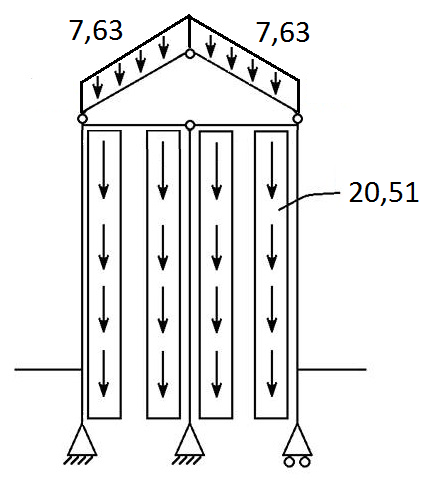
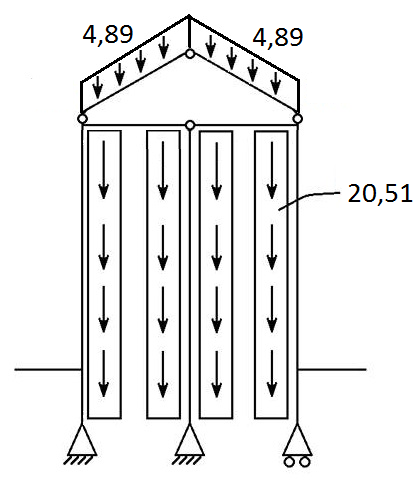
Egenlastafsnit rettet

Changed region(s): [[0.1555, 0.0311, 0.7464, 0.9959], [0.3421, 0.249, 0.5598, 0.9647], [0.7775, 0.3734, 0.9952, 0.4357]]

diff --git a/Rapport/Teknisk/indled.tex b/Rapport/Teknisk/indled.tex
@@ -53,7 +53,8 @@ Tilbygningen til Strøybergs Palæ vil blive udsat for en række laster, både p
 De permanente laster, der beregnes for tilbygningen af Strøybergs Palæ, er egenlast og jordlast.
 
 \subsubsection{Egenlast}
-Når egenlasten skal bestemmes, findes rumfanget af diverse materialer og ganges med deres densitet, og der fratrækkes vinduer og døres arealer. Dette er lasterne for hele bygningen, lasterne deles ud på de 3 rammer, hvor den midterste optager halvdelen af lasterne. De bestemte laster laves til sidst om til linjelaster, som sættes på bjælkesystemet.  
+For at bestemme den egenlast der virker på det statiske system, beregnes først en samlet egenlast for taget, dernæst bestemmes egenlasten for gulve og vægge, hvorudfra den samlede egenlast under taget kan bestemmes, og til sidst bestemmes egenlasten for stålsystemet ekslusivt tag. Den egenlast der virker under taget opdeles altså i egenlast fra stålsystem og egenlast fra etagedæk, idet egenlasten fra etagedækkene giver anledning til moment, på grund samlingen mellem etagedækkene og stålkonstruktionen, som ses på Figur \ref{fig:etage}. 
+\newline \indent{     }  Når egenlasten skal bestemmes, findes rumfanget af de pågældende materialer, som multipliceres med materialets densitet, og der fratrækkes vinduer og døres arealer. Dette er lasterne for hele bygningen. Lasterne deles ud på de 3 rammer, hvor den midterste optager halvdelen af lasterne. De bestemte laster laves til sidst om til linjelaster, som sættes på bjælkesystemet.  
 
 \textbf{Last fra tag}
 \newline
@@ -65,10 +66,29 @@ Tagets areal bestemmes ud fra Figur \ref{fig:tagetage}:
 	$A_{tag} = 6,\!71 m\cdot 12,\!50 m \cdot 2=167,\!71 m^2$
 \end{center}
 
-Arealet multipliceres med egenvægten for mellemtungt tag:
+Arealet multipliceres med egenvægten for mellemtungt tag, for at finde lasten for hele taget på tilbygningen:
 \begin{center}
 	$p_{tag} = 167,\!71 m^2\cdot 600,\!00 \frac{N}{m^2}=100,\!62 kN$
 \end{center}
+
+Denne last vil blive fordelt ud på de tre rammer, hvor den midterste ramme vil optage halvdelen af lasten, som herefter omregnes til en linjelast:
+\begin{center}
+	$\frac{\frac{100,\!62 kN}{2}}\cdot{6,\!71 m \cdot 2} = 3,\!75 \frac{kN}{m}$
+\end{center}
+
+Denne værdi skal lægges sammen med egelasten for stålsystemet i tagkonstuktionen. 
+\newline \indent{     }  Densiteten for den anvendte ståltype S235 med profil nr. 450 har densiteten $g = 115,\!00\frac{kg}{m}$ \citep{stabi}. Dette multipliceres med længden af sadeltaget, som er $6,\!71 m$ samt tyngdeaccelerationen, for at finde lasten fra stålsystemet:
+
+\begin{center}
+	$115,\!00 \frac{kg}{m}\cdot 6,\!71m \cdot 9,\!82\frac{m}{s^2} = 7,\!58 kN$
+\end{center}
+
+Denne last omregnes til en linjelast: 
+\begin{center}
+	$\frac{7,\!58 kN}{6,\!71m}= 1,\!13 \frac{kN}{m}$
+\end{center}
+
+Denne linjelast kan nu adderes til tagets egenlast, og den samlede egenlast for taget er bestemt til $4,\!89 \frac{kN}{m}$. 
 
 \begin{figure}[H]
 	\centering
@@ -77,28 +97,9 @@ Arealet multipliceres med egenvægten for mellemtungt tag:
 	\label{fig:tagetage}
 \end{figure}
 
-Dermed er lasten for hele taget på tilbygningen $100,\!62 kN$, som vil blive fordelt ud på de tre rammer, hvor den midterste ramme vil optage halvdelen af lasten, som herefter omregnes til en linjelast:
-\begin{center}
-	$\frac{\frac{100,\!62 kN}{2}}\cdot{6,\!71 m \cdot 2} = 3,\!75 \frac{kN}{m}$
-\end{center}
-
-Egenlast af stål i tagsystemet:
-\newline
-Densiteten for den anvendte ståltype S235 med profil nr. 450 har densiteten $g = 115,\!00\frac{kg}{m}$ \citep{stabi}. Dette skal multipliceres med længden af sadeltaget, som er $6,\!71 m$. Derefter omregnes der til [kN].
-\begin{center}
-	$115,\!00 \frac{kg}{m}\cdot 6,\!71m \cdot 9,\!82\frac{m}{s^2} = 7,\!58 kN$
-\end{center}
-
-Dermed er lasten for stålsystemet i taget på den midterste ramme $7,\!58 kN$ pr. stål stang. Denne laves nu om til en linje last: 
-\begin{center}
-	$\frac{7,\!58 kN}{6,\!71m}= 1,\!13 \frac{kN}{m}$
-\end{center}
-
-Denne linjelast kan nu adderes til tagets egenlast, og den samlede egenlast for taget er bestemt til $4, \!89 \frac{kN}{m}$. 
-
 \textbf{Last fra væg}
 \newline
-Facaderne antages at være ens samt indeholde lige mange vinduer og døre. Der antages at være 11 vinduer og én dør pr. facade \citep{gammellokalplan}, hvilket illustreres med mål på Figur \ref{fig:facade}.
+Tilbygningens to facader antages at være ens, og bestå af lige mange vinduer og døre. Facaderne antages at bestå af 11 vinduer og én dør \citep{gammellokalplan}, hvilket illustreres med mål på Figur \ref{fig:facade}.
 
 \begin{figure}[H]
 	\centering
@@ -107,7 +108,7 @@ Facaderne antages at være ens samt indeholde lige mange vinduer og døre. Der a
 	\label{fig:facade}
 \end{figure}
 
-Til beregning af væggens egenlast skal der påregnes en indervæg og et isoleringslag. Ydervæggen ikke er en del af det statiske system og dermed ikke skal medregnes. Indervæggen bestemmes til at være mursten, mens isoleringen bestemmes til at være rockwool. Tykkelsen og densiteten for mursten og rockwool kan ses i Tabel \ref{tab:murogwool}.
+Til beregning af væggens egenlast skal der påregnes en indervæg og et isoleringslag. Ydervæggen er ikke er en del af det statiske system og skal derfor ikke medregnes. Indervæggen bestemmes at være mursten, og isoleringen bestemmes at være rockwool. Tykkelsen og densiteten for mursten og rockwool kan ses i Tabel \ref{tab:murogwool}.
 
 \begin{table}
 	\begin{center}
@@ -122,8 +123,8 @@ Til beregning af væggens egenlast skal der påregnes en indervæg og et isoleri
 	\end{center}
 \end{table}
 
-Da den ene gavl ligger op ad den nuværende bygning, antages denne side ikke at belaste det statiske system. 
-\newline \indent{     }  De 9 vinduer på gavlen, der ikke ligger op ad den nuværende bygning, er identiske med dem på facaden, som kan ses på Figur \ref{fig:gavl}. Indervæg og isolering for gavlen er ligeledes identisk med facadens.
+Der medregnes kun egenlast for én gavl, idet den anden gavl ligger op ad den nuværende bygning, og den belaster dermed ikke det statiske system. 
+\newline \indent{     }  De 9 vinduer på gavlen har identiske mål med dem på facaden, som kan ses på Figur \ref{fig:gavl}. Indervæg og isolering for gavlen er ligeledes identisk med facadens.
 \newline \indent{     }  Når arealet af facaderne beregnes trækkes arealet af vinduerne samt døren fra, da disse antages at belaste ydermuren.
 
 \begin{figure}[H]
@@ -137,6 +138,13 @@ Arealerne og lasten for facaderne og gavlen kan ses i Tabel \ref{tab:arealoglast
 \begin{center}
 	$p = g A \sum dt$
 \end{center}
+
+\begin{itemize}
+	\item[-] g: Tyngdeacceleration på $9,\!82 \frac{m}{s^2}$
+	\item[-] A: Areal
+	\item[-] d: Densitet af metariale
+	\item[-] t: Tykkelse af materiale
+\end{itemize}
 
 \begin{table}
 	\begin{center}
@@ -154,7 +162,7 @@ Arealerne og lasten for facaderne og gavlen kan ses i Tabel \ref{tab:arealoglast
 
 \textbf{Last fra gulv}
 \newline
-Det antages at bygnings etager kun består af gulv, dvs. ingen skillevægge, trapper m.m. Derfor er den samlede mængde gulv pr. etage: 
+Det antages at bygnings etager kun består af gulv, dvs. ingen skillevægge, trapper m.m. Derfor er det samlede areal af gulv pr. etage: 
 
 \begin{center}
 $A_{etage} = 12,\!50 m\cdot 12,\!00 m = 150,\!00 m^2$
@@ -208,39 +216,37 @@ Beregning af volumen og last for beton, rockwool og linoleum beregnes på samme 
 	\end{center}
 \end{table}
 
-\textbf{Samlet egenlast eksklusiv tag og stålsystem}
+\textbf{Samlet egenlast fra etagedæk}
 \newline
-De tidligere beregnede værdier adderes:
-\begin{center}
-	$352,\!27 kN + 352,\!27 kN + 383,\!38 kN + 157,\!06 kN + 1693,\!44 kN + 15,\!51 kN + 0,\!04 = 2953,\!90 kN$
-\end{center}
-
-Den samlede egenlast deles med 2, da midterrammen optager halvdelen af den beregnede last:
-\begin{center}
-	$\frac{2953,\!90 kN}{2} = 1476,\!95 kN$
-\end{center}
-
+Lasterne fra henholdsvis Tabel \ref{tab:arealoglast} og Tabel \ref{tab:gulv} adderes, og der fås en samlet last på $2953,\!90 kN$. 
+\newline \indent{     }  Den samlede egenlast deles med 2, da midterrammen optager halvdelen af den beregnede last, og der fås en last på $1476,\!95 kN$. 
+\newline
+\newline
 Den midterste stang, i midterrammen, optager halvdelen af egenlasten, mens de to yderste stænger hver optager en fjerdedel:
 \begin{center}
 	$\frac{1476,\!95 kN}{4} = 369,\!24 kN$
 \end{center}
 
-Denne last omregnes nu til en linjelast ned langs stængerne, og derfor deles med 18 m:
+Denne last omregnes til en linjelast, og derfor deles med 18 m, som er højden fra understøtningerne til taget:
+
 \begin{center}
 	$\frac{369,\!24 kN}{18 m} = 20,\!51 \frac{kN}{m}$
 \end{center}
 
+Den samlede egenlast fra etagedækkene er altså $20,\!51 \frac{kN}{m}$. 
+
 \textbf{Egenlast af stålsystemet}
 \newline
+Der beregnes en egenlast for stålsystemet ekslusivt tag. 
 \newline
-Stålsystem eksklusiv tag:
 \newline
-Stålstyrken antages igen at være S235, som har densiteten $g=115\frac{kg}{m}$ \citep{stabi}. For at finde kraften af en enkelt lodret stang multipliceres denne med højden af bygningen, som er 18 m, inklusiv kælderen.
+For at finde kraften af en enkelt lodret stang multipliceres ståls densitet $g=115\frac{kg}{m}$ med højden af bygningen fra kælder til tag, som er 18 m, og dernæst tyngeaccelerationen:
+
 \begin{center}
 	$115\frac{kg}{m}\cdot 18 m \cdot 9,\!82\frac{m}{s^2} = 20,\!33 kN$
 \end{center}
 
-Dette skal omregnes til at blive en linjelast og der divideres derfor med højden igen:
+Dette omregnes til at blive en linjelast ved at divideres med højden på 18 m:
 
 \begin{center}
 	$\frac{20,\!33 kN}{18m} = 1,\!13\frac{kN}{m}$
@@ -256,9 +262,11 @@ Dette skal omregnes til at blive en linjelast og der divideres derfor med længd
 $\frac{6,\!78 kN}{6m} = 1,\!13 \frac{kN}{m}$
 \end{center}
 
+Egenlasten fra stålsystemet er altså $1,\!13 \frac{kN}{m}$.
+
 \textbf{Opsamling}
 \newline
-Nu er alle karakteristiske egenlaster fra taget, etagedækkene samt egenlasten fra bjælkesystemet bestemt. Disse placeres nu i det statiske sytem vidst på Figur \ref{fig:m} og \ref{fig:n}.
+De karakteristiske egenlaster fra henholdsvis taget, etagedækkene samt stålsystemet bestemt. Disse placeres nu i det statiske sytem vidst på Figur \ref{fig:m} og \ref{fig:n}.
 
 \begin{figure}[H]\centering
 	\begin{minipage}[b]{0.48\textwidth}\centering
